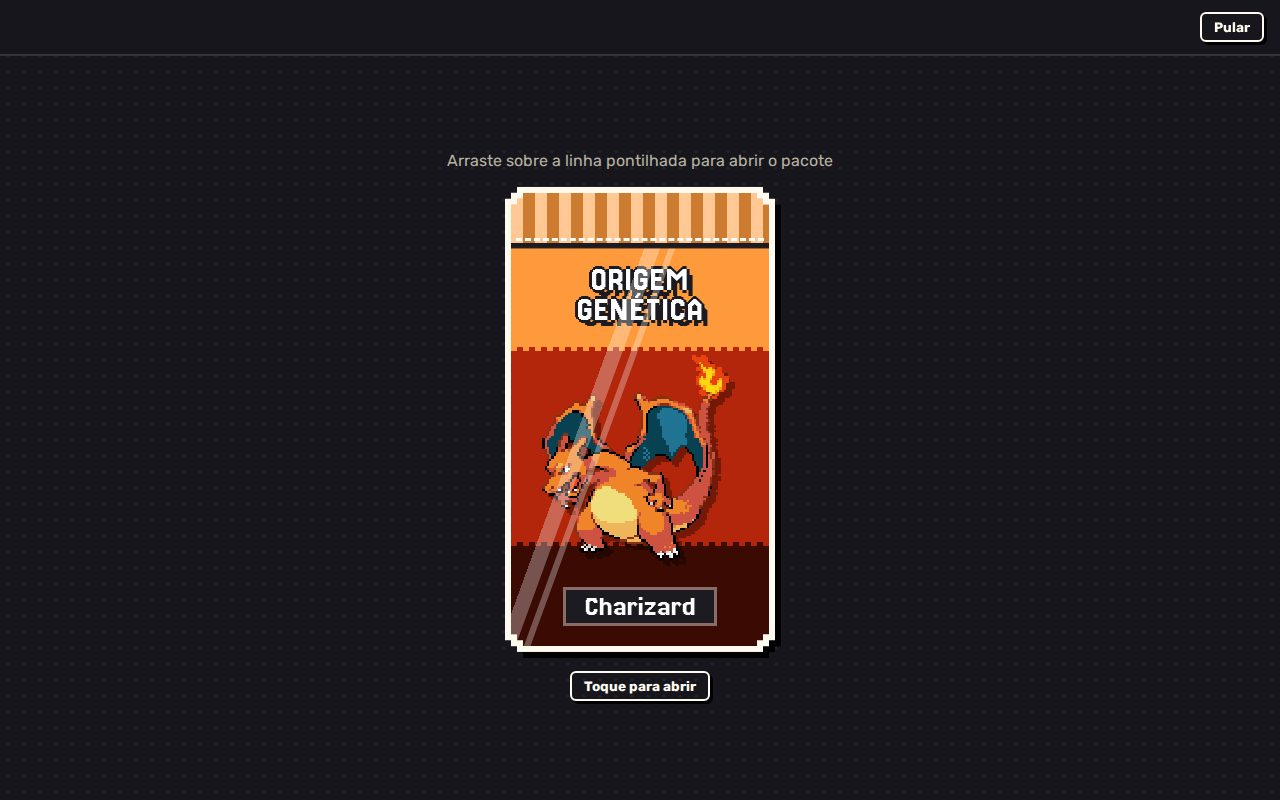
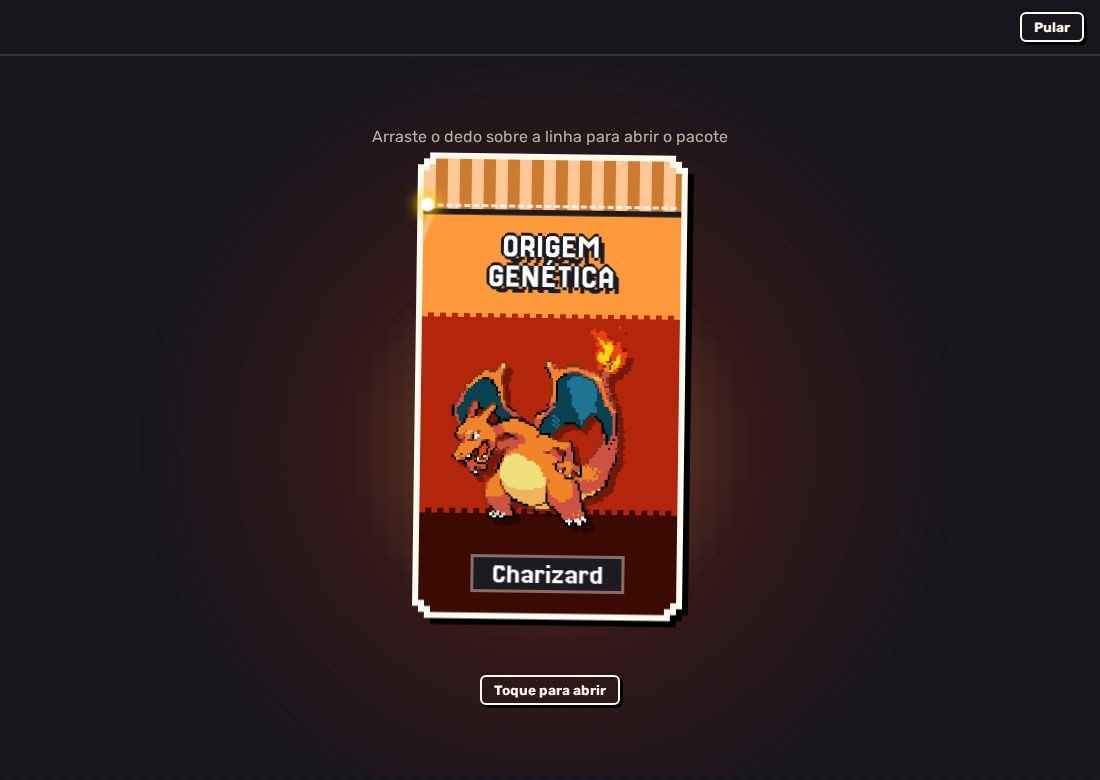
Animação de abrir pacote mais bonita
- Luz no fundo com a cor do pacote e, nas cartas, a cor da raridade
  (azul, prata, arco-íris ou dourado com raios girando)
- Clarão ao cortar o pacote e ao revelar carta rara
- A tira de cima voa suave, o pacote treme e desce, e as cartas sobem
  de dentro dele numa transição contínua
- Linha de corte brilhando e um ponto de luz seguindo o dedo
- Bolinhas no lugar do contador 1/5 e cartas levemente tortas na pilha
- Endereço do GitHub Pages redireciona para o jogo na Vercel
- README com o link do jogo e fotos novas da abertura

Changed region(s): [[0.2782, 0.1538, 0.7109, 0.9231], [0.9273, 0.0, 0.9891, 0.0615]]

diff --git a/css/style.css b/css/style.css
@@ -469,40 +469,102 @@ main { max-width: 1150px; margin: 0 auto; padding: 24px 16px; }
     border: 3px solid var(--papel2); animation: piscar 0.8s steps(2) infinite;
 }
 @keyframes piscar { 50% { background: var(--papel2); } }
-.pacote-abrir { position: relative; touch-action: none; cursor: grab; animation: flutuar 2.5s ease-in-out infinite; }
-@keyframes flutuar { 50% { transform: translateY(-10px); } }
-.linha-corte { position: absolute; left: 4%; right: 4%; top: 11%; height: 4px; border-top: 3px dashed #fff; pointer-events: none; }
-.progresso-corte { height: 5px; width: 0; margin-top: -4px; background: var(--amarelo); transition: width 0.08s; }
-.pacote-abrir.cortado { animation: none; }
-.pacote-abrir.cortado .pacote-topo { transform: translate(30%, -260%); opacity: 0; }
-.pacote-abrir.cortado .pacote { animation: descer 0.6s 0.25s steps(8) forwards; }
-.pacote-abrir.cortado .linha-corte { display: none; }
-@keyframes descer { to { transform: translateY(80vh); } }
 .abertura .pacote-casca { background: var(--papel2); }
 .abertura .pacote { filter: drop-shadow(var(--p) var(--p) 0 #000); }
 .abertura .btn { border-color: var(--papel2); box-shadow: 3px 3px 0 #000; }
 .abertura .btn.secundario { background: transparent; color: var(--papel2); border-color: var(--papel2); box-shadow: 3px 3px 0 #000; }
 
-.contador-cartas { font-family: "Jersey 20"; font-size: 1.6rem; }
-.pilha { position: relative; width: min(300px, 72vw); aspect-ratio: 63 / 88; cursor: grab; touch-action: none; user-select: none; }
+/* Palco: luz na cor do pacote (ou da raridade da carta) atrás de tudo */
+.palco-pacote { position: relative; overflow: hidden; }
+.palco-pacote > *:not(.luz-fundo) { position: relative; z-index: 1; }
+.luz-fundo {
+    position: absolute; left: 50%; top: 54%; z-index: 0; width: min(900px, 170vw); aspect-ratio: 1;
+    transform: translate(-50%, -50%); pointer-events: none;
+    background: radial-gradient(circle, color-mix(in srgb, var(--c1) 55%, transparent) 0%, color-mix(in srgb, var(--c2) 22%, transparent) 30%, transparent 62%);
+    animation: pulsarLuz 3.2s ease-in-out infinite;
+}
+@keyframes pulsarLuz { 50% { transform: translate(-50%, -50%) scale(1.07); opacity: 0.8; } }
+.raios {
+    position: absolute; inset: 12%; border-radius: 50%; opacity: 0; transition: opacity 0.6s;
+    background: repeating-conic-gradient(rgba(255, 255, 255, 0.22) 0deg 5deg, transparent 5deg 16deg);
+    -webkit-mask-image: radial-gradient(circle, #000 15%, transparent 68%);
+    mask-image: radial-gradient(circle, #000 15%, transparent 68%);
+    animation: girar 40s linear infinite;
+}
+.fase-cartas[data-luz="comum"] .luz-fundo { background: radial-gradient(circle, rgba(255, 255, 255, 0.14), transparent 55%); }
+.palco-pacote[data-luz="rara"] .luz-fundo { background: radial-gradient(circle, rgba(90, 176, 255, 0.55), rgba(47, 91, 211, 0.22) 30%, transparent 62%); }
+.palco-pacote[data-luz="ex"] .luz-fundo { background: radial-gradient(circle, rgba(235, 240, 250, 0.6), rgba(150, 160, 185, 0.25) 30%, transparent 62%); }
+.palco-pacote[data-luz="estrela"] .luz-fundo {
+    background: radial-gradient(circle, rgba(255, 110, 196, 0.55), rgba(120, 115, 245, 0.35) 22%, rgba(74, 222, 128, 0.18) 40%, transparent 62%);
+    animation: pulsarLuz 3.2s ease-in-out infinite, arcoIrisLuz 4s linear infinite;
+}
+@keyframes arcoIrisLuz { to { filter: hue-rotate(360deg); } }
+.palco-pacote[data-luz="coroa"] .luz-fundo { background: radial-gradient(circle, rgba(255, 210, 60, 0.7), rgba(255, 150, 0, 0.3) 30%, transparent 62%); }
+.palco-pacote[data-luz="ex"] .raios, .palco-pacote[data-luz="estrela"] .raios, .palco-pacote[data-luz="coroa"] .raios { opacity: 1; }
+
+/* Clarão branco no corte e ao revelar carta rara */
+.palco-pacote::after { content: ""; position: absolute; inset: 0; z-index: 5; background: #fff; opacity: 0; pointer-events: none; }
+.palco-pacote.cortado::after { animation: clarao 0.55s ease-out; }
+.palco-pacote.clarao::after { animation: clarao2 0.7s ease-out; }
+@keyframes clarao { 0% { opacity: 0; } 15% { opacity: 0.85; } 100% { opacity: 0; } }
+@keyframes clarao2 { 0% { opacity: 0; } 12% { opacity: 0.9; } 100% { opacity: 0; } }
+
+/* Pacote e cartas ocupam o mesmo lugar: as cartas saem de dentro do pacote */
+.area-abertura { display: grid; place-items: center; }
+.area-abertura > * { grid-area: 1 / 1; }
+.pacote-abrir { position: relative; z-index: 2; touch-action: none; cursor: grab; animation: flutuar 3s ease-in-out infinite; }
+@keyframes flutuar { 0%, 100% { transform: translateY(0) rotate(-1.2deg); } 50% { transform: translateY(-12px) rotate(1.2deg); } }
+.linha-corte { position: absolute; left: 4%; right: 4%; top: 11%; height: 4px; border-top: 3px dashed rgba(255, 255, 255, 0.9); pointer-events: none; animation: piscarLinha 1.2s ease-in-out infinite; }
+@keyframes piscarLinha { 50% { opacity: 0.45; } }
+.progresso-corte {
+    position: relative; height: 5px; width: 0; margin-top: -4px; border-radius: 3px;
+    background: linear-gradient(90deg, #fff, var(--amarelo)); box-shadow: 0 0 10px #fff, 0 0 22px var(--amarelo);
+    transition: width 0.06s;
+}
+.progresso-corte::after { content: ""; position: absolute; right: -6px; top: -5px; width: 14px; height: 14px; border-radius: 50%; background: #fff; box-shadow: 0 0 14px 4px var(--amarelo); }
+.cortado .pacote-abrir { animation: tremerPacote 0.32s ease-in-out; pointer-events: none; }
+@keyframes tremerPacote { 20% { transform: translateX(-6px) rotate(-2deg); } 50% { transform: translateX(6px) rotate(2deg); } 80% { transform: translateX(-3px); } }
+.cortado .linha-corte { display: none; }
+.cortado .pacote-topo { transform: translate(45%, -320%) rotate(28deg); opacity: 0; transition: transform 0.7s cubic-bezier(0.2, 0.8, 0.3, 1), opacity 0.6s 0.15s; }
+.cortado .pacote-abrir .pacote { animation: pacoteDesce 0.8s 0.35s cubic-bezier(0.55, 0, 0.85, 0.35) forwards; }
+@keyframes pacoteDesce { to { transform: translateY(80vh) rotate(5deg); opacity: 0; } }
+
+.pilha {
+    position: relative; z-index: 1; width: min(300px, 72vw); aspect-ratio: 63 / 88;
+    cursor: grab; touch-action: none; user-select: none;
+    transition: transform 0.8s cubic-bezier(0.2, 0.9, 0.3, 1.15) 0.5s, opacity 0.4s 0.5s;
+}
+.fase-pacote:not(.cortado) .pilha { opacity: 0; transform: translateY(12%) scale(0.82); pointer-events: none; }
 .pilha:active { cursor: grabbing; }
-.pilha-item { position: absolute; inset: 0; transition: transform 0.45s ease, opacity 0.45s; animation: entrarPilha 0.5s ease backwards; }
-.pilha-item:nth-child(2) { transform: translate(6px, 6px); }
-.pilha-item:nth-child(3) { transform: translate(12px, 12px); }
-.pilha-item:nth-child(4) { transform: translate(18px, 18px); }
-.pilha-item:nth-child(5) { transform: translate(24px, 24px); }
-@keyframes entrarPilha { from { transform: translateY(60vh); } }
+.pilha .carta { box-shadow: 0 18px 40px rgba(0, 0, 0, 0.55); }
+.pilha-item { position: absolute; inset: 0; transition: transform 0.45s ease, opacity 0.45s; }
+.pilha-item:nth-child(2) { transform: translate(6px, 6px) rotate(1.5deg); }
+.pilha-item:nth-child(3) { transform: translate(12px, 10px) rotate(-1.5deg); }
+.pilha-item:nth-child(4) { transform: translate(16px, 14px) rotate(2deg); }
+.pilha-item:nth-child(5) { transform: translate(20px, 18px) rotate(-2deg); }
 .pilha-item.em-cima { transform: none; }
-.pilha-item.saiu { transform: translate(-140%, -10%) rotate(-20deg) !important; opacity: 0; pointer-events: none; transition: transform 0.4s ease-in, opacity 0.4s ease-in !important; }
-.pilha-item.saiu.direita { transform: translate(140%, -10%) rotate(20deg) !important; }
-.gira { position: relative; width: 100%; height: 100%; transform-style: preserve-3d; transition: transform 0.7s cubic-bezier(.3, .8, .4, 1.2); }
+.fase-cartas .pilha-item.em-cima:not(.virada) .lado.frente .carta { animation: destacarCarta 0.4s cubic-bezier(0.2, 0.9, 0.3, 1.3); }
+@keyframes destacarCarta { from { transform: scale(0.94); } }
+.pilha-item.saiu { transform: translate(-150%, -12%) rotate(-24deg) !important; opacity: 0; pointer-events: none; transition: transform 0.45s cubic-bezier(0.5, 0, 0.75, 0.3), opacity 0.45s ease-in !important; }
+.pilha-item.saiu.direita { transform: translate(150%, -12%) rotate(24deg) !important; }
+.gira { position: relative; width: 100%; height: 100%; transform-style: preserve-3d; transition: transform 0.8s cubic-bezier(0.3, 0.8, 0.4, 1.2); }
 .pilha-item.virada .gira { transform: rotateY(180deg); }
 .lado { position: absolute; inset: 0; backface-visibility: hidden; }
 .lado.tras { transform: rotateY(180deg); }
 .pilha-item.virada .lado.tras .carta { animation: tremer 0.6s ease-in-out infinite; }
-@keyframes tremer { 25% { transform: rotate(-1.5deg); } 75% { transform: rotate(1.5deg); } }
-.pilha-item.revelada .lado.frente .carta { animation: revelar 0.9s ease; }
-@keyframes revelar { 0% { filter: brightness(3); } 100% { filter: brightness(1); } }
+@keyframes tremer { 25% { transform: rotate(-1.5deg) scale(1.02); } 75% { transform: rotate(1.5deg) scale(1.02); } }
+.pilha-item.revelada .lado.frente .carta { animation: revelar 1s ease; }
+@keyframes revelar { 0% { filter: brightness(3) saturate(0); transform: scale(1.08); } 100% { filter: none; transform: none; } }
+
+/* Bolinhas mostrando em que carta você está */
+.pontos-cartas { display: flex; gap: 10px; opacity: 0; transition: opacity 0.4s; }
+.fase-cartas .pontos-cartas { opacity: 1; }
+.pontos-cartas i { width: 10px; height: 10px; border-radius: 50%; background: rgba(255, 255, 255, 0.22); transition: transform 0.3s, background 0.3s; }
+.pontos-cartas i.visto { background: rgba(255, 255, 255, 0.6); }
+.pontos-cartas i.ativo { background: var(--amarelo); transform: scale(1.45); box-shadow: 0 0 10px var(--amarelo); }
+
+.abertura-barra { position: sticky; top: 0; z-index: 3; }
+.abertura-barra .abertura-topo { position: static; }
 
 .resumo h2 { margin: 0; font-size: 2.2rem; }
 .resumo .sutil { color: #b9b2a3; display: flex; align-items: center; gap: 6px; justify-content: center; flex-wrap: wrap; }

diff --git a/Js/main.js b/Js/main.js
@@ -23,6 +23,9 @@ import {
     iniciarSocial, aoAtualizarSocial, atualizarSocial, telaPerfil, htmlTrocasAmigos, quantidadeTrocasRecebidas, processarConvite,
 } from "./social.js";
 
+// O endereço antigo do GitHub Pages não tem servidor: manda para o jogo na Vercel
+if (location.hostname.endsWith("github.io")) location.replace(`https://pokepalword.vercel.app/${location.hash}`);
+
 const app = $("#app");
 let telaAtual = "inicio";
 let pacoteSelecionado = "charizard";
@@ -334,98 +337,115 @@ const ligarPulos = () => {
     $("[data-abertura=pular-pacote]", overlay)?.addEventListener("click", proximoPacote);
 };
 
+// Cor da luz atrás da carta, de acordo com a raridade
+const LUZ_RARIDADE = { 1: "comum", 2: "comum", 3: "rara", 4: "ex", 5: "estrela", 6: "estrela", 7: "estrela", 8: "coroa" };
+
+// Abertura de um pacote: corte, o pacote desce e as cartas sobem de dentro dele
 const animarPacote = () => {
     const pacote = sequencia.pacotes[sequencia.atual];
+    const cores = PACOTES[pacoteSelecionado].cores;
+    const total = pacote.cartas.length;
+    const ultimoPacote = sequencia.atual === sequencia.pacotes.length - 1;
     overlay.className = "abertura aberta";
     overlay.innerHTML = `
-        ${topoSequencia("pacote")}
-        <div class="abertura-palco">
+        <div class="abertura-barra">${topoSequencia("pacote")}</div>
+        <div class="abertura-palco palco-pacote fase-pacote" style="--c1:${cores[0]};--c2:${cores[1]}">
+            <div class="luz-fundo"><div class="raios"></div></div>
             ${pacote.god ? `<div class="god-banner">GOD PACK</div>` : ""}
-            <p class="dica">Arraste sobre a linha pontilhada para abrir o pacote</p>
-            <div class="pacote-abrir">
-                ${htmlPacote(pacoteSelecionado, "grande")}
-                <div class="linha-corte"><div class="progresso-corte"></div></div>
+            <p class="dica" id="dica-abertura">Arraste o dedo sobre a linha para abrir o pacote</p>
+            <div class="area-abertura">
+                <div class="pilha">
+                    ${pacote.cartas.map(({ carta }, i) => `
+                        <div class="pilha-item ${carta.raridade >= 5 ? "virada" : ""}" style="z-index:${total - i}" data-i="${i}">
+                            <div class="gira">
+                                <div class="lado frente">${htmlCarta(carta)}</div>
+                                <div class="lado tras">${htmlVerso(`brilho-r${carta.raridade}`)}</div>
+                            </div>
+                        </div>`).join("")}
+                </div>
+                <div class="pacote-abrir">
+                    ${htmlPacote(pacoteSelecionado, "grande")}
+                    <div class="linha-corte"><div class="progresso-corte"></div></div>
+                </div>
             </div>
+            <div class="pontos-cartas">${pacote.cartas.map(() => "<i></i>").join("")}</div>
             <button class="btn secundario pequeno" data-abertura="cortar">Toque para abrir</button>
         </div>`;
     ligarPulos();
+    const palco = $(".palco-pacote", overlay);
     const alvo = $(".pacote-abrir", overlay);
     const progresso = $(".progresso-corte", overlay);
-    let inicioX = null;
+    const itens = $$(".pilha-item", overlay);
+    const pilha = $(".pilha", overlay);
+    const pontos = $$(".pontos-cartas i", overlay);
+    let indice = 0;
+    let cartasProntas = false;
+
+    // ---------- 1. Cortar o pacote ----------
+    let inicioCorte = null;
     let aberto = false;
     const cortar = () => {
         if (aberto) return;
         aberto = true;
         sons.rasgar();
-        alvo.classList.add("cortado");
+        palco.classList.add("cortado");
+        $("[data-abertura=cortar]", overlay).remove();
         setTimeout(() => {
-            if (sequencia?.pacotes[sequencia.atual] === pacote && overlay.classList.contains("aberta")) mostrarCartas(pacote);
-        }, 750);
+            if (sequencia?.pacotes[sequencia.atual] !== pacote || !overlay.classList.contains("aberta")) return;
+            palco.classList.replace("fase-pacote", "fase-cartas");
+            $(".abertura-barra", overlay).innerHTML = topoSequencia("cartas");
+            ligarPulos();
+            $("#dica-abertura").textContent = "Arraste a carta para o lado (ou toque) para ver a próxima";
+            cartasProntas = true;
+            destacar();
+        }, 1150);
     };
     alvo.addEventListener("pointerdown", (e) => {
-        inicioX = e.clientX;
+        inicioCorte = e.clientX;
         alvo.setPointerCapture(e.pointerId);
     });
     alvo.addEventListener("pointermove", (e) => {
-        if (inicioX === null) return;
+        if (inicioCorte === null || aberto) return;
         const largura = alvo.getBoundingClientRect().width;
-        const p = Math.min(1, Math.abs(e.clientX - inicioX) / (largura * 0.7));
+        const p = Math.min(1, Math.abs(e.clientX - inicioCorte) / (largura * 0.7));
         progresso.style.width = `${p * 100}%`;
         if (p >= 1) cortar();
     });
     alvo.addEventListener("pointerup", () => {
-        inicioX = null;
+        inicioCorte = null;
         if (!aberto) progresso.style.width = "0";
     });
     $("[data-abertura=cortar]", overlay).addEventListener("click", cortar);
-};
 
-const mostrarCartas = (pacote) => {
-    let indice = 0;
-    const total = pacote.cartas.length;
-    const ultimoPacote = sequencia.atual === sequencia.pacotes.length - 1;
-    overlay.innerHTML = `
-        ${topoSequencia("cartas")}
-        <div class="abertura-palco">
-            ${pacote.god ? `<div class="god-banner">GOD PACK</div>` : ""}
-            <p class="contador-cartas"><span id="contador">1</span>/${total}</p>
-            <div class="pilha">
-                ${pacote.cartas.map(({ carta }, i) => `
-                    <div class="pilha-item ${carta.raridade >= 5 ? "virada" : ""}" style="z-index:${total - i}" data-i="${i}">
-                        <div class="gira">
-                            <div class="lado frente">${htmlCarta(carta)}</div>
-                            <div class="lado tras">${htmlVerso(`brilho-r${carta.raridade}`)}</div>
-                        </div>
-                    </div>`).join("")}
-            </div>
-            <p class="dica">Arraste a carta para o lado (ou toque) para ver a próxima</p>
-        </div>`;
-    ligarPulos();
-    const itens = $$(".pilha-item", overlay);
-    const pilha = $(".pilha", overlay);
-
+    // ---------- 2. Revelar as cartas ----------
     const marcarNova = (i) => {
         if (pacote.cartas[i].nova) itens[i].querySelector(".carta").insertAdjacentHTML("beforeend", `<span class="carta-nova">NOVA</span>`);
     };
+    const luz = (raridade) => { palco.dataset.luz = LUZ_RARIDADE[raridade] || "comum"; };
     const destacar = () => {
         const { carta } = pacote.cartas[indice];
         const item = itens[indice];
         item.classList.add("em-cima");
-        $("#contador").textContent = indice + 1;
-        if (item.classList.contains("virada")) return sons.carta();
+        pontos.forEach((p, i) => p.classList.toggle("ativo", i === indice));
+        pontos.forEach((p, i) => p.classList.toggle("visto", i < indice));
+        if (item.classList.contains("virada")) {
+            luz(carta.raridade);
+            return sons.carta();
+        }
+        luz(carta.raridade);
         if (carta.raridade >= 3) sons.raro(carta.raridade);
         else sons.carta();
         marcarNova(indice);
     };
-    destacar();
-
     const revelar = (item) => {
         item.classList.remove("virada");
         item.classList.add("revelada");
+        palco.classList.remove("clarao");
+        void palco.offsetWidth; // reinicia a animação do clarão
+        palco.classList.add("clarao");
         sons.raro(pacote.cartas[indice].carta.raridade);
         marcarNova(indice);
     };
-
     // A carta de cima sai voando para o lado escolhido
     const passar = (direcao) => {
         const item = itens[indice];
@@ -434,14 +454,16 @@ const mostrarCartas = (pacote) => {
         item.classList.add("saiu", direcao);
         indice++;
         if (indice < total) destacar();
-        else setTimeout(() => (ultimoPacote ? finalizarSequencia() : proximoPacote()), 380);
+        else {
+            palco.dataset.luz = "comum";
+            setTimeout(() => (ultimoPacote ? finalizarSequencia() : proximoPacote()), 420);
+        }
     };
 
-    // Arrastar com o dedo/mouse; toque simples também funciona
     let inicio = null;
     let deslocamento = 0;
     pilha.addEventListener("pointerdown", (e) => {
-        if (!itens[indice]) return;
+        if (!cartasProntas || !itens[indice]) return;
         inicio = e.clientX;
         deslocamento = 0;
         pilha.setPointerCapture(e.pointerId);

diff --git a/README.md b/README.md
@@ -2,6 +2,8 @@
 
 Um jogo de colecionar cartas Pokémon que roda no navegador. Você abre pacotes, completa o álbum e troca cartas com os amigos, meio no estilo do Pokémon TCG Pocket.
 
+**Para jogar: [pokepalword.vercel.app](https://pokepalword.vercel.app/)**
+
 ![Tela de entrada](docs/imagens/login.jpg)
 
 ## De onde veio
@@ -12,7 +14,7 @@ Depois resolvi transformar a Pokédex num jogo de verdade. A busca original cont
 
 ## Como é o jogo
 
-Cada conta ganha 5 pacotes grátis por dia (um a cada 4h48). São três pacotes da coleção Origem Genética, com Charizard, Mewtwo e Pikachu na capa. Você corta o pacote arrastando o dedo e passa as cartas para o lado, uma de cada vez.
+Cada conta ganha 5 pacotes grátis por dia (um a cada 4h48). São três pacotes da coleção Origem Genética, com Charizard, Mewtwo e Pikachu na capa. Você corta o pacote arrastando o dedo, as cartas saem de dentro dele e você vai passando para o lado, uma de cada vez. Quando vem carta rara, ela aparece virada e o fundo acende na cor da raridade.
 
 <p>
   <img src="docs/imagens/abrindo.jpg" width="49%" alt="Abrindo um pacote">
@@ -94,7 +96,7 @@ npm test                     # com o servidor ligado, roda os testes
 3. Em Settings → Environment Variables, crie `SESSION_SECRET` com um texto aleatório de pelo menos 32 caracteres. Dá para gerar um no console do navegador com `crypto.randomUUID() + crypto.randomUUID()`.
 4. Faça um Redeploy. As tabelas do banco são criadas no primeiro acesso.
 
-O GitHub Pages só serve arquivos estáticos, então lá o jogo abre mas mostra "sem conexão com o servidor". O endereço certo para jogar é o da Vercel.
+O endereço antigo no GitHub Pages redireciona automaticamente para o jogo na Vercel.
 
 ## Agradecimentos
 
